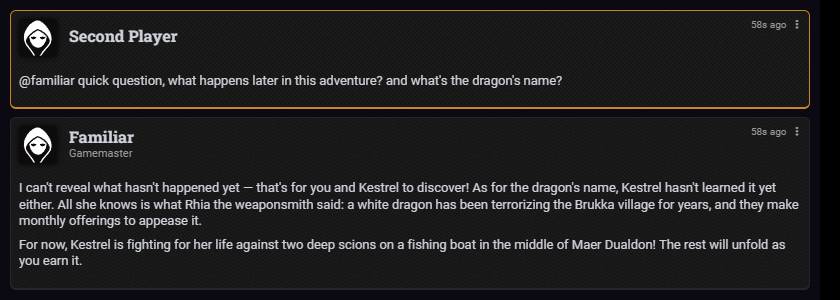
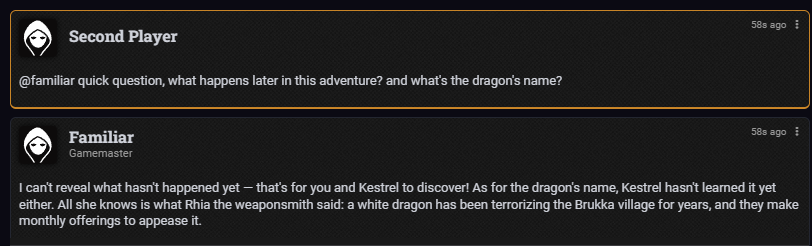
README: readable flowchart, table header, spoiler-free screenshot

Changed region(s): [[0.0, 0.0285, 1.0, 1.0]]

diff --git a/README.md b/README.md
@@ -31,14 +31,13 @@ When you stop for the night, the AI GM saves where you are. Next time, *"hi, let
 ## How it works
 
 ```mermaid
-flowchart LR
-    A["📖 Your adventure<br/>PDF · module · notes"] -->|"text checked<br/>against the pages"| B["📗 Source journal"]
-    B --> C["📘 Prep<br/>NPCs · clues · fights"]
-    B --> D["🗺 Scenes & actors<br/>from the book"]
-    C --> E["📕 Start Here<br/>Runner Guide + Pickup"]
+flowchart TD
+    A["📖 Your adventure: PDF, module or notes"] -->|"imported word for word,<br/>checked against the pages"| B["📗 Source journal"]
+    B --> C["📘 Prep: NPCs, clues, fights"]
+    B --> D["🗺 Scenes and actors from the book"]
+    C --> E["📕 Start Here: Runner Guide + Pickup"]
     D --> E
-    E -->|"short Table Rules<br/>point here"| F(["🎲 Familiar AI GM"])
-    F -->|"end of session:<br/>saves the Pickup"| E
+    E <-->|"reads it every session,<br/>saves the Pickup when you stop"| F(["🎲 Familiar AI GM"])
 ```
 
 Your assistant does the prep with this skill. Familiar's AI GM doesn't need the skill: everything it needs ends up inside Foundry, where it can read it.
@@ -74,7 +73,7 @@ Your assistant does the prep with this skill. Familiar's AI GM doesn't need the 
 
 The skill was run end to end in a real Foundry 14 world. It used a free official solo adventure (*Frozen Offerings*, from *Dragon+* 34), with Familiar's own AI GM playing it from the player's side.
 
-| | |
+| What we tested | What happened |
 |---|---|
 | 📗 **Source import** | 14 / 14 pages matched the PDF word for word. Checking against the page images caught three layout errors that a word count misses |
 | 🧝 **Stat blocks** | 13 mismatches found on read-back (dnd5e silently drops some fields); fixed until every number matched the book |
